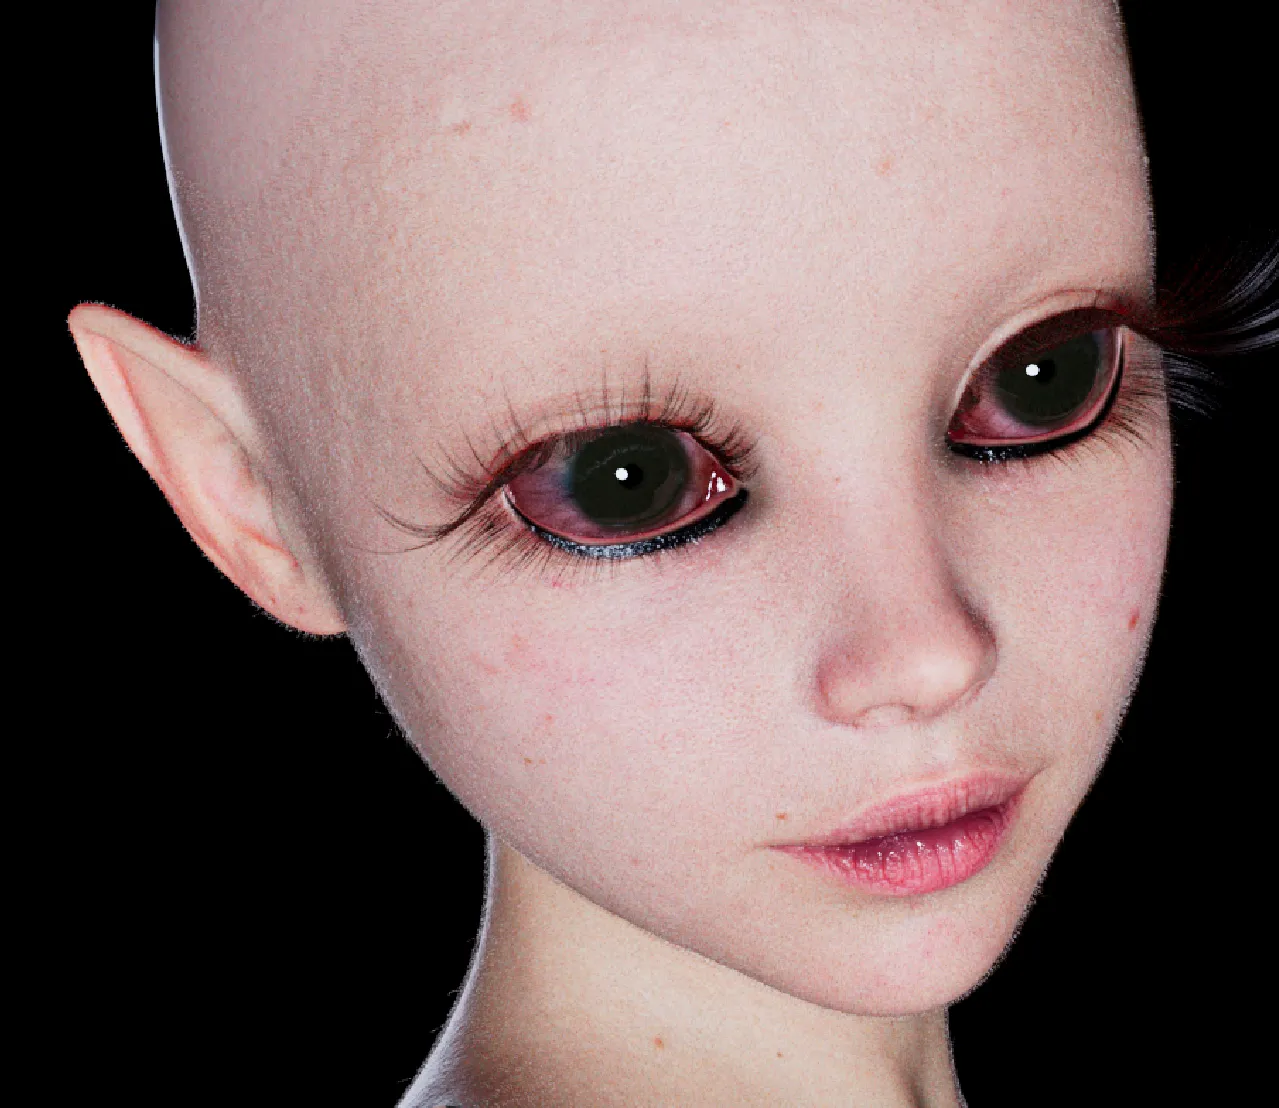
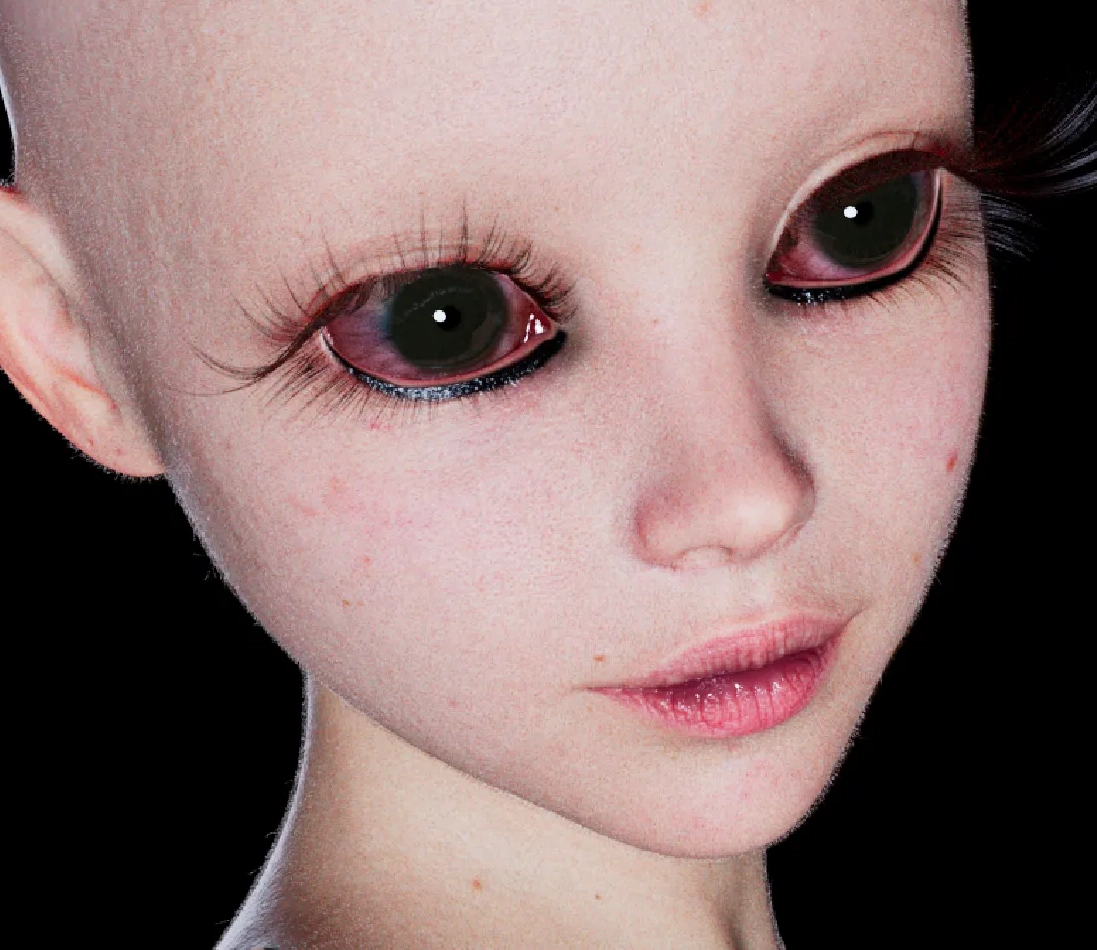
FIX Gallery

diff --git a/index.html b/index.html
@@ -4,7 +4,7 @@
 <head>
   <meta charset="UTF-8" />
   <meta name="viewport" content="width=device-width, initial-scale=1.0" />
-  <title>Website2000</title>
+  <title>quentinkeller.world</title>
 
   <link rel="stylesheet" href="style.css" />
 
@@ -84,7 +84,7 @@
       </div>
 
       <div class="artwork-vertical" style="--cols: 1fr auto">
-        <img src="images\project/01.webp" alt="screenshot" />
+        <img src="images\project/sar_04.webp" alt="screenshot" />
 
         <div class="artwork-caption">
           <span>Rendu 3D<br>2024 </span>
@@ -143,7 +143,7 @@
       </div>
 
       <div class="artwork-vertical" style="--cols: 1fr auto">
-        <img src="images\project/export_52.webp" alt="screenshot" />
+        <img src="images\project/screenshot_mu.webp" alt="screenshot" />
 
         <div class="artwork-caption">
           <span>Peinture 2020 huile sur toile 180 x 120 cm </span>
@@ -151,6 +151,7 @@
           <span>Painting 2020 oil on canvas 180 x 120 cm </span>
         </div>
       </div>
+
       <div class="artwork-vertical" style="--cols: 1fr auto">
         <img src="images\project/carpe_diem_1.webp" alt="screenshot" />
 
@@ -160,6 +161,17 @@
           <span>Painting 2020 oil on canvas 180 x 120 cm </span>
         </div>
       </div>
+
+      <div class="artwork-vertical" style="--cols: 1fr auto">
+        <img src="images\project/carpe_diem_1.webp" alt="screenshot" />
+
+        <div class="artwork-caption">
+          <span>Peinture 2020 huile sur toile 180 x 120 cm </span>
+
+          <span>Painting 2020 oil on canvas 180 x 120 cm </span>
+        </div>
+      </div>
+
 
     </section>
 
@@ -217,6 +229,25 @@
 
       <div class="artwork-vertical" style="--cols: 1fr auto">
         <img src="images\project/elfmale.webp" alt="screenshot" />
+
+        <div class="artwork-caption">
+          <span>Peinture 2020 huile sur toile 180 x 120 cm </span>
+
+          <span>Painting 2020 oil on canvas 180 x 120 cm </span>
+        </div>
+      </div>
+      <div class="artwork-vertical" style="--cols: 1fr auto">
+        <img src="images\project/sar_05.webp" alt="screenshot" />
+
+        <div class="artwork-caption">
+          <span>Peinture 2020 huile sur toile 180 x 120 cm </span>
+
+          <span>Painting 2020 oil on canvas 180 x 120 cm </span>
+        </div>
+      </div>
+
+      <div class="artwork-vertical" style="--cols: 1fr auto">
+        <img src="images\project/TorB_A.webp" alt="screenshot" />
 
         <div class="artwork-caption">
           <span>Peinture 2020 huile sur toile 180 x 120 cm </span>
@@ -320,6 +351,38 @@
           <span>Painting 2020 oil on canvas 180 x 120 cm </span>
         </div>
       </div>
+
+       <div class="artwork-horizontal" style="--cols: 1fr auto">
+        <img src="images\project\sor_02.webp" alt="screenshot" />
+
+        <div class="artwork-caption">
+          <span>Peinture 2020 huile sur toile 180 x 120 cm </span>
+
+          <span>Painting 2020 oil on canvas 180 x 120 cm </span>
+        </div>
+      </div>     
+
+
+      <div class="artwork-horizontal" style="--cols: 1fr auto">
+        <img src="images\project\sor_03.webp" alt="screenshot" />
+
+        <div class="artwork-caption">
+          <span>Peinture 2020 huile sur toile 180 x 120 cm </span>
+
+          <span>Painting 2020 oil on canvas 180 x 120 cm </span>
+        </div>
+      </div>
+
+       <div class="artwork-horizontal" style="--cols: 1fr auto">
+        <img src="images\project\01.webp" alt="screenshot" />
+
+        <div class="artwork-caption">
+          <span>Peinture 2020 huile sur toile 180 x 120 cm </span>
+
+          <span>Painting 2020 oil on canvas 180 x 120 cm </span>
+        </div>
+      </div>    
+
 
       <div class="artwork-horizontal" style="--cols: 1fr auto">
         <img src="images\project\20181004_194841 1.webp" alt="screenshot" />

diff --git a/pages/cv.html b/pages/cv.html
@@ -4,7 +4,7 @@
 <head>
     <meta charset="UTF-8">
     <meta name="viewport" content="width=device-width, initial-scale=1.0">
-    <title>About</title>
+    <title>quentinkeller.world</title>
 
     <link rel="stylesheet" href="../style.css">
 

diff --git a/pages/socials.html b/pages/socials.html
@@ -4,7 +4,7 @@
 <head>
     <meta charset="UTF-8">
     <meta name="viewport" content="width=device-width, initial-scale=1.0">
-    <title>About</title>
+    <title>quentinkeller.world</title>
 
     <link rel="stylesheet" href="../style.css">
 

diff --git a/pages/about.html b/pages/about.html
@@ -4,7 +4,7 @@
 <head>
   <meta charset="UTF-8" />
   <meta name="viewport" content="width=device-width, initial-scale=1.0" />
-  <title>About</title>
+  <title>quentinkeller.world</title>
 
   <link rel="stylesheet" href="../style.css" />
 
